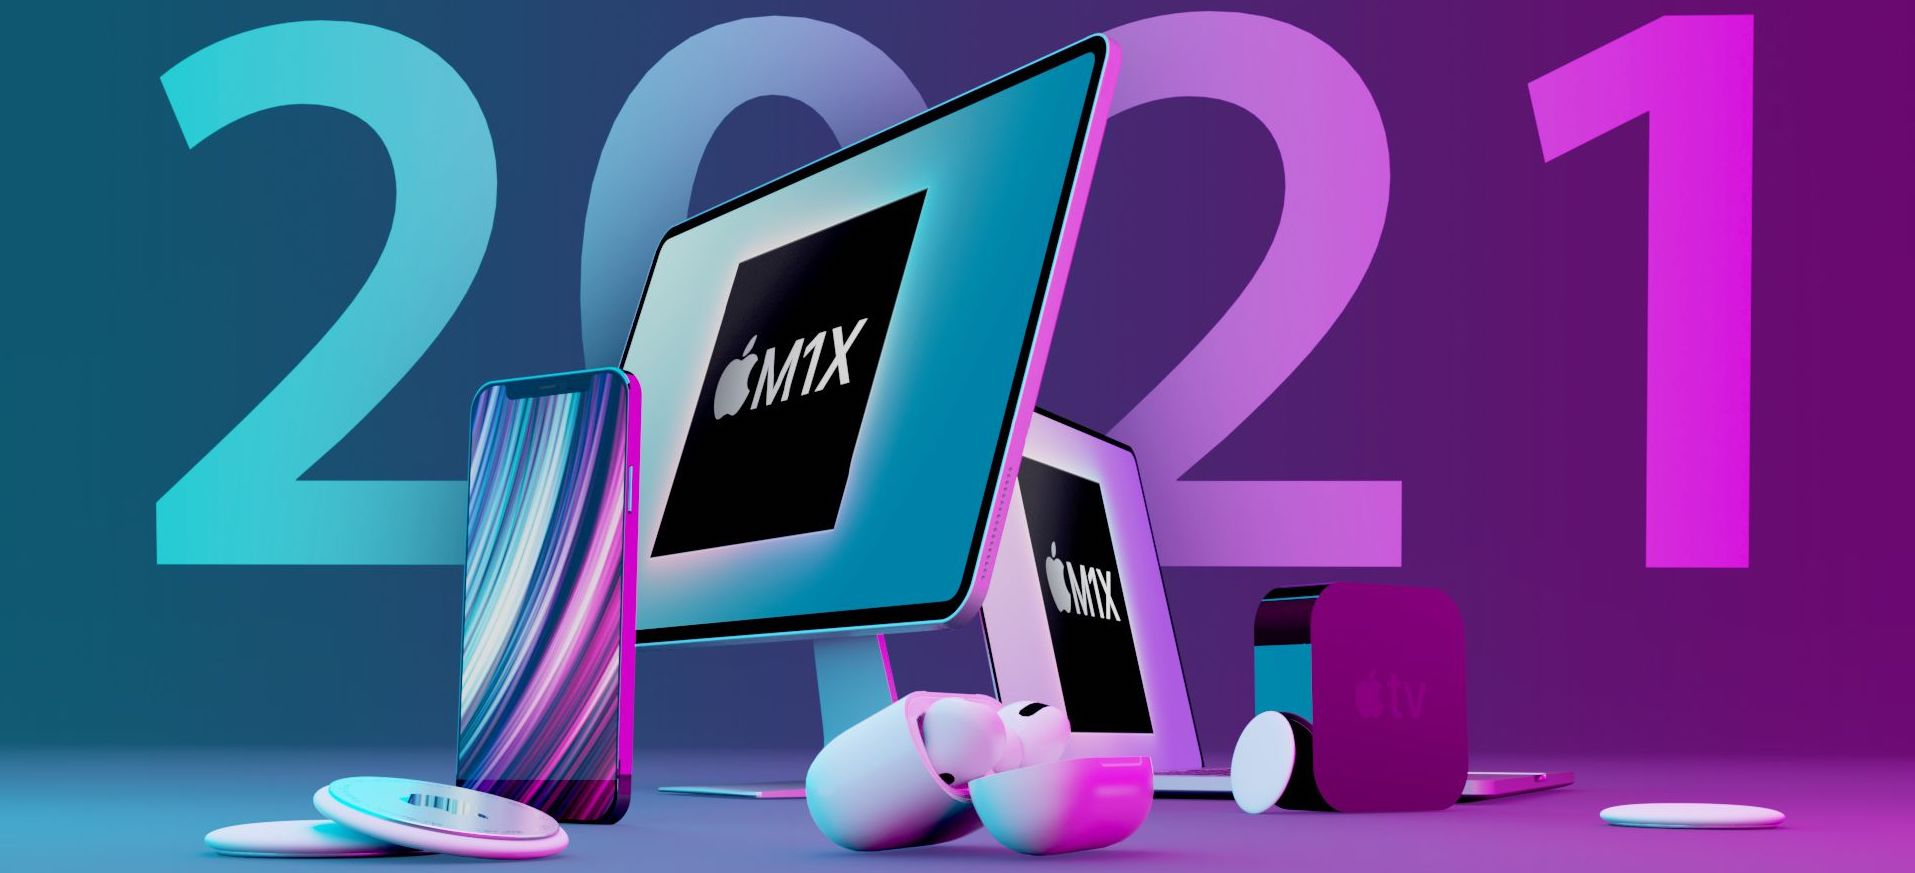
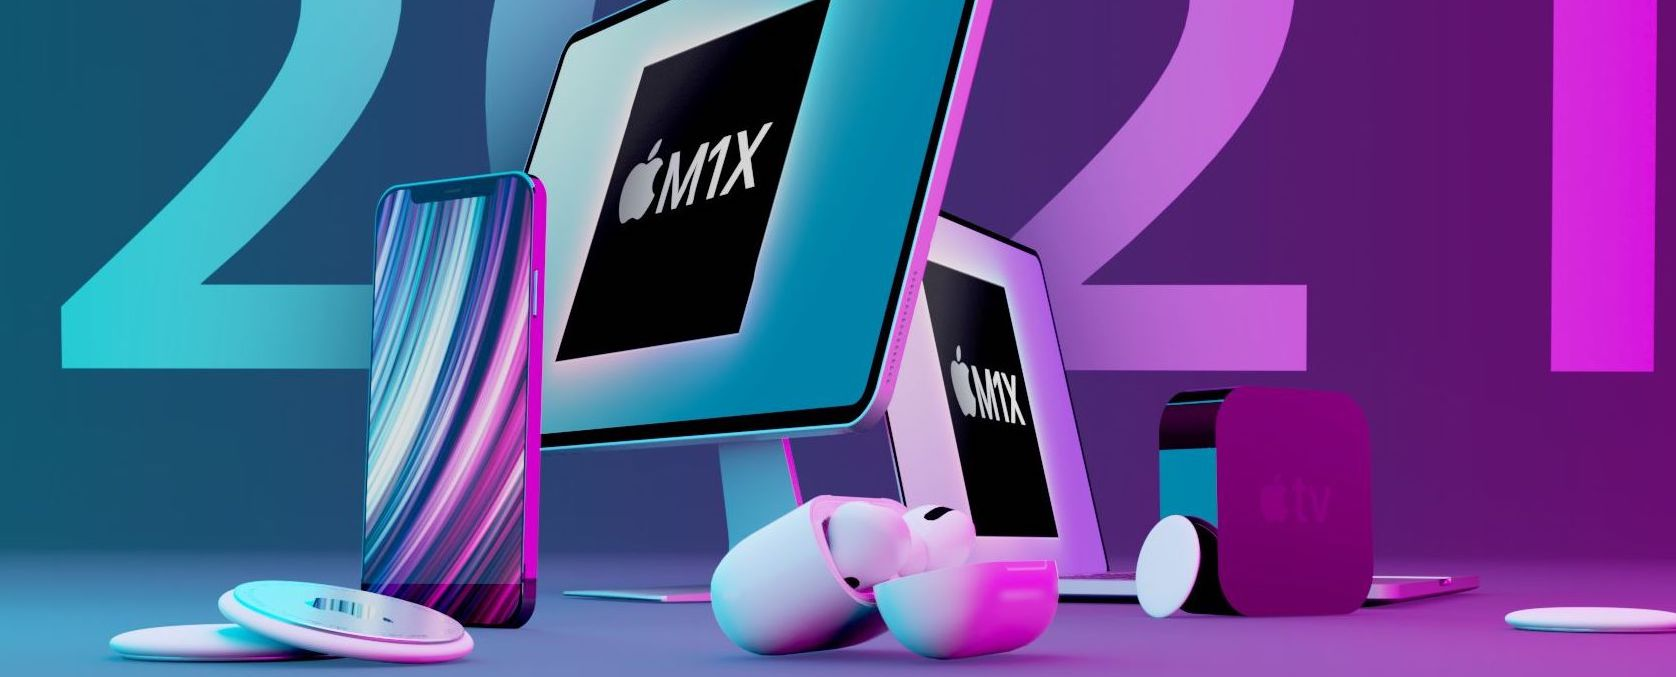
deploy: ecebe3dff3eaa483a3511ea3131b5d7e8d7a572b

diff --git a/posts/ios/index.html b/posts/ios/index.html
@@ -17,7 +17,7 @@
 <meta name=application-name content="Kr1s的網站">
 <meta name=apple-mobile-web-app-title content="Kr1s的網站"><link rel="shortcut icon" type=image/x-icon href=/favicon.ico>
 <link rel=icon type=image/png sizes=32x32 href=/favicon-32x32.png>
-<link rel=icon type=image/png sizes=16x16 href=/favicon-16x16.png><link rel=apple-touch-icon sizes=180x180 href=/apple-touch-icon.png><link rel=manifest href=/site.webmanifest><link rel=canonical href=https://blog.kris0404.com/posts/ios/><link rel=stylesheet href=/lib/normalize/normalize.min.css><link rel=stylesheet href=/css/style.min.css><link rel=stylesheet href=/lib/fontawesome-free/all.min.css><link rel=stylesheet href=/lib/animate/animate.min.css><script type=application/ld+json>{"@context":"http://schema.org","@type":"BlogPosting","headline":"iOS 社課","inLanguage":"zh-TW","mainEntityOfPage":{"@type":"WebPage","@id":"https:\/\/blog.kris0404.com\/posts\/ios\/"},"image":[{"@type":"ImageObject","url":"https:\/\/blog.kris0404.com\/posts\/ios\/ios_preview.jpeg","width":1915,"height":873}],"genre":"posts","keywords":"iOS, 社課","wordcount":4,"url":"https:\/\/blog.kris0404.com\/posts\/ios\/","datePublished":"2021-10-12T11:48:01+08:00","dateModified":"2021-10-18T23:43:12+08:00","publisher":{"@type":"Organization","name":"Kr1s"},"author":{"@type":"Person","name":"Kr1s"},"description":"社課簡報網址"}</script></head>
+<link rel=icon type=image/png sizes=16x16 href=/favicon-16x16.png><link rel=apple-touch-icon sizes=180x180 href=/apple-touch-icon.png><link rel=manifest href=/site.webmanifest><link rel=canonical href=https://blog.kris0404.com/posts/ios/><link rel=stylesheet href=/lib/normalize/normalize.min.css><link rel=stylesheet href=/css/style.min.css><link rel=stylesheet href=/lib/fontawesome-free/all.min.css><link rel=stylesheet href=/lib/animate/animate.min.css><script type=application/ld+json>{"@context":"http://schema.org","@type":"BlogPosting","headline":"iOS 社課","inLanguage":"zh-TW","mainEntityOfPage":{"@type":"WebPage","@id":"https:\/\/blog.kris0404.com\/posts\/ios\/"},"image":[{"@type":"ImageObject","url":"https:\/\/blog.kris0404.com\/posts\/ios\/ios_preview.jpeg","width":1676,"height":677}],"genre":"posts","keywords":"iOS, 社課","wordcount":4,"url":"https:\/\/blog.kris0404.com\/posts\/ios\/","datePublished":"2021-10-12T11:48:01+08:00","dateModified":"2021-10-18T23:43:12+08:00","publisher":{"@type":"Organization","name":"Kr1s"},"author":{"@type":"Person","name":"Kr1s"},"description":"社課簡報網址"}</script></head>
 <body header-desktop header-mobile><script type=text/javascript>(window.localStorage&&localStorage.getItem('theme')?localStorage.getItem('theme')==='dark':'auto'==='auto'?window.matchMedia('(prefers-color-scheme: dark)').matches:'auto'==='dark')&&document.body.setAttribute('theme','dark')</script>
 <div id=mask></div><div class=wrapper><header class=desktop id=header-desktop>
 <div class=header-wrapper>
